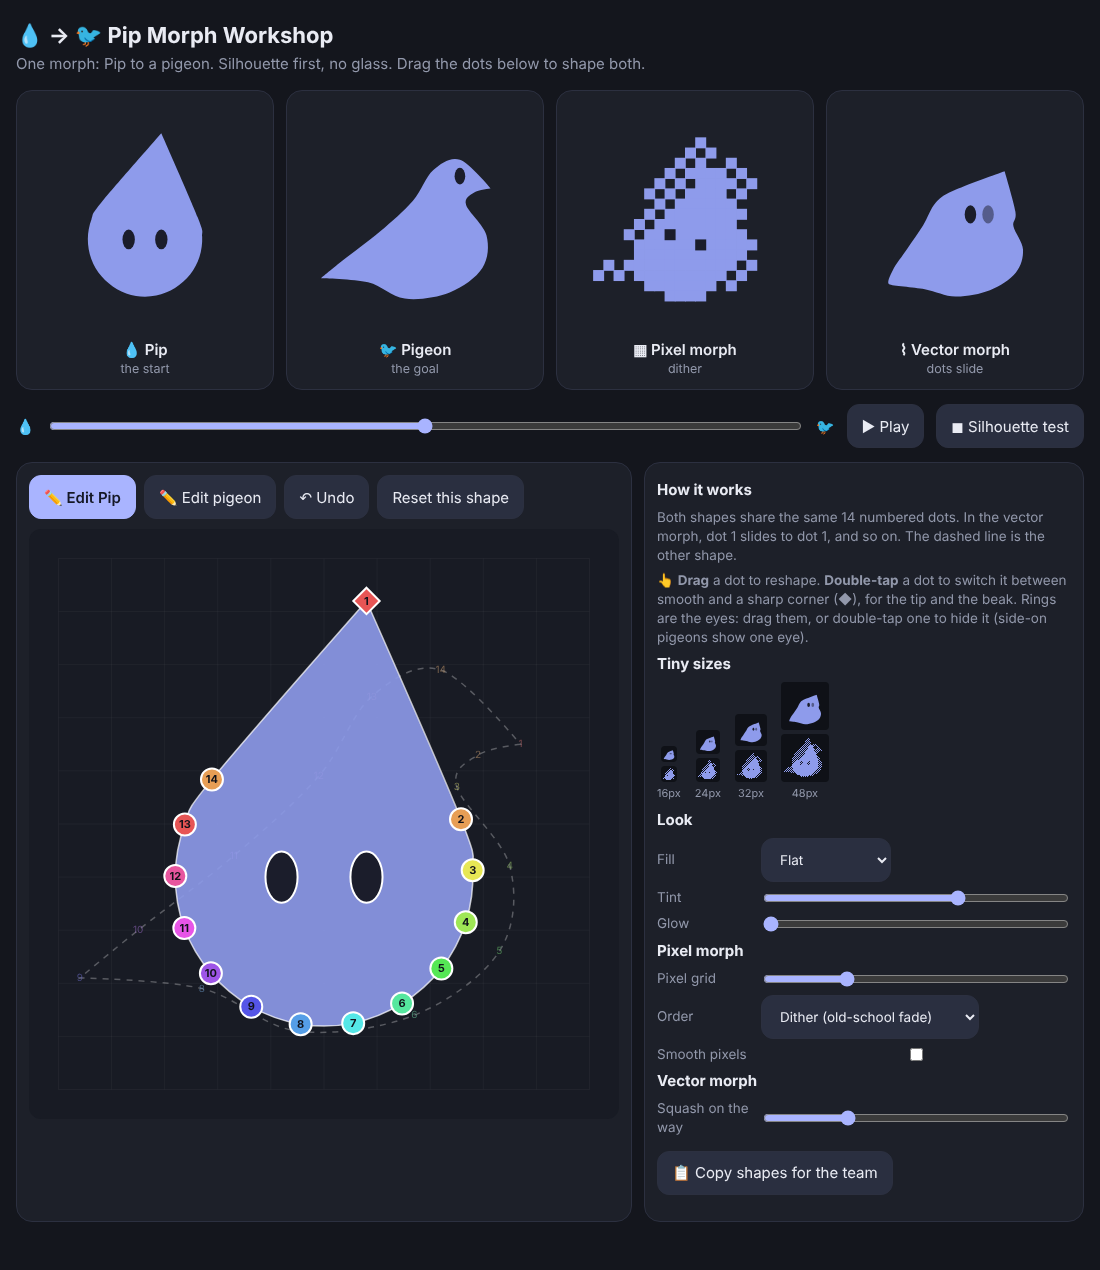
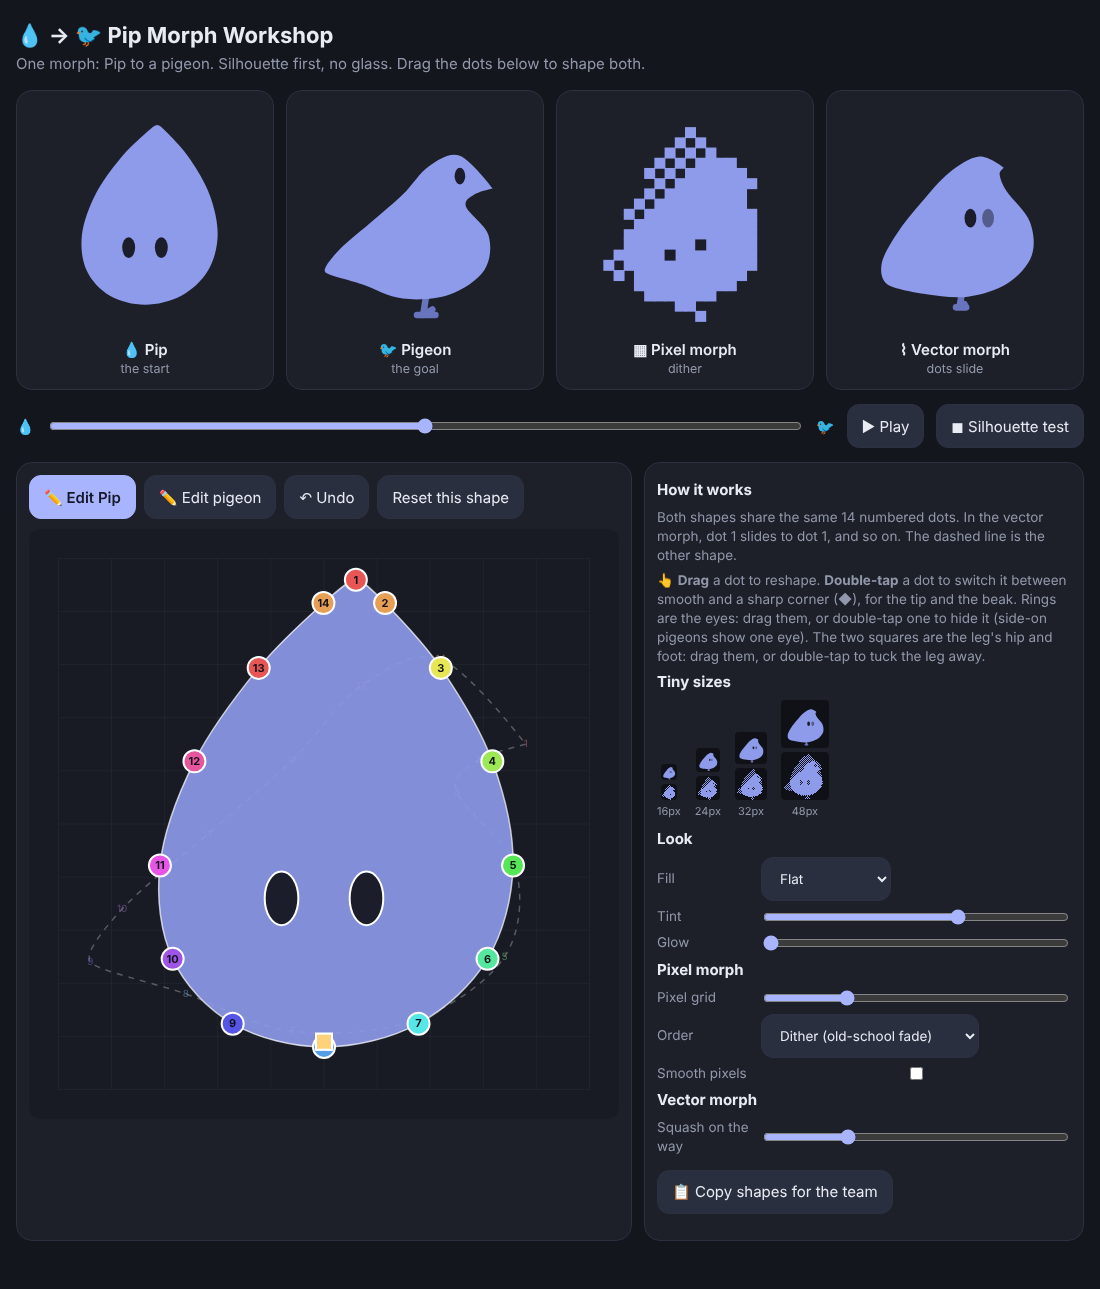
Morph Workshop: one leg that grows in the morph; Pip blobbier and taller (true drop curve); pigeon rounder
Claude-Session: https://claude.ai/code/session_01Fk5mX8SBdThAyaXsRCBZu6

diff --git a/app/design/pip-morph-workshop.html b/app/design/pip-morph-workshop.html
@@ -70,7 +70,7 @@
     <div class="card side">
       <h3>How it works</h3>
       <p>Both shapes share the same 14 numbered dots. In the vector morph, dot 1 slides to dot 1, and so on. The dashed line is the other shape.</p>
-      <p>👆 <b>Drag</b> a dot to reshape. <b>Double-tap</b> a dot to switch it between smooth and a sharp corner (◆), for the tip and the beak. Rings are the eyes: drag them, or double-tap one to hide it (side-on pigeons show one eye).</p>
+      <p>👆 <b>Drag</b> a dot to reshape. <b>Double-tap</b> a dot to switch it between smooth and a sharp corner (◆), for the tip and the beak. Rings are the eyes: drag them, or double-tap one to hide it (side-on pigeons show one eye). The two squares are the leg's hip and foot: drag them, or double-tap to tuck the leg away.</p>
       <h3>Tiny sizes</h3>
       <div class="tiny" id="tiny"></div>
       <h3>Look</h3>
@@ -96,26 +96,30 @@
 // ── Data: two shapes, 12 dots each. [x, y, sharp 0..1] in a 100×100 box. Eyes: [x, y, shown 0..1].
 const N = 14;
 function teardrop() {
-  const pts = [[58, 8, 1]];
-  const cx = 50, cy = 60, r = 28, a0 = -23, a1 = 221;   // where the two sides from the tip touch the circle   // the arc meets the point's two straight-ish sides
-  for (let i = 0; i < N - 1; i++) {
-    const a = (a0 + (a1 - a0) * i / (N - 2)) * Math.PI / 180;
-    pts.push([+(cx + r * Math.cos(a)).toFixed(1), +(cy + r * Math.sin(a)).toFixed(1), 0]);
+  // a true drop curve: the sides bulge all the way up to a soft point (no straight sides, no shoulders).
+  // x = sin t · sin(t/2)^m, y = (1 − cos t)/2. Lower m = blobbier. The point leans a touch to the right.
+  const m = .75, W = 41, top = 4, H = 88, lean = 6, pts = [];
+  for (let i = 0; i < N; i++) {
+    const t = 2 * Math.PI * i / N;
+    const x = 50 + W * Math.sin(t) * Math.pow(Math.sin(t / 2), m) + lean * (1 + Math.cos(t)) / 2;
+    const y = top + H * (1 - Math.cos(t)) / 2;
+    pts.push([+x.toFixed(1), +y.toFixed(1), i === 0 ? .45 : 0]);
   }
-  return { pts, eyes: [[42, 60, 1], [58, 60, 1]], eyeR: 4.2 };
+  return { pts, eyes: [[42, 64, 1], [58, 64, 1]], eyeR: 4.4, leg: [50, 91, 50, 91] };   // no leg: hip = foot
 }
 function pigeon() {
   // chunky and round: a big belly, a small head, a short beak and a stubby tail
   // pigeon, not duck: chest juts forward, small head, beak tips down, back slopes away, tail points DOWN
-  return { pts: [[87, 35, 1], [79, 37, 0], [75, 43, 0], [85, 58, 0], [83, 74, 0], [67, 86, 0], [45, 89, 0],
-                 [27, 81, 0], [4, 79, 1], [15, 70, 0], [33, 56, 0], [49, 41, 0], [59, 26, 0], [72, 21, 0]],
-           eyes: [[72, 29, 1], [72, 29, 0]], eyeR: 3.6 };
+  // rounder: a plump back, a soft tail end, no long straight edges (only the beak stays sharp)
+  return { pts: [[88, 35, 1], [79, 38, 0], [75, 44, 0], [86, 58, 0], [84, 75, 0], [67, 87, 0], [44, 89, 0],
+                 [24, 82, 0], [6, 76, .4], [12, 66, 0], [28, 52, 0], [44, 38, 0], [57, 24, 0], [72, 19, 0]],
+           eyes: [[72, 29, 1], [72, 29, 0]], eyeR: 3.6, leg: [56, 84, 54, 97] };   // leg: hip x,y then foot x,y
 }
 const START = { a: teardrop(), b: pigeon() };
 const clone = o => JSON.parse(JSON.stringify(o));
 let shapes = clone(START);
-try { const s = JSON.parse(localStorage.getItem('pipMorph.v2')); if (s && s.a && s.b && s.a.pts.length === N) shapes = s; } catch (e) {}
-const save = () => { try { localStorage.setItem('pipMorph.v2', JSON.stringify(shapes)); } catch (e) {} };
+try { const s = JSON.parse(localStorage.getItem('pipMorph.v5')); if (s && s.a && s.b && s.a.pts.length === N && s.a.leg) shapes = s; } catch (e) {}
+const save = () => { try { localStorage.setItem('pipMorph.v5', JSON.stringify(shapes)); } catch (e) {} };
 let version = 0;   // bumps on every edit, so the pixel masks are rebuilt only then
 
 // ── Geometry
@@ -124,7 +128,7 @@ const ease = t => t < .5 ? 2 * t * t : 1 - Math.pow(-2 * t + 2, 2) / 2;
 function mix(A, B, k) {
   return { pts: A.pts.map((p, i) => [lerp(p[0], B.pts[i][0], k), lerp(p[1], B.pts[i][1], k), lerp(p[2], B.pts[i][2], k)]),
            eyes: A.eyes.map((e, i) => [lerp(e[0], B.eyes[i][0], k), lerp(e[1], B.eyes[i][1], k), lerp(e[2], B.eyes[i][2], k)]),
-           eyeR: lerp(A.eyeR, B.eyeR, k) };
+           eyeR: lerp(A.eyeR, B.eyeR, k), leg: A.leg.map((v, i) => lerp(v, B.leg[i], k)) };
 }
 /** A closed smooth curve through the dots (Catmull-Rom as Béziers). A sharp dot pulls its handles in to a corner. */
 function outline(S, map) {
@@ -142,12 +146,27 @@ function outline(S, map) {
   return path;
 }
 
+/** The leg: a rounded stroke from hip to foot, with short toes pointing forward. Grows from nothing on Pip. */
+function legPath(S, map) {
+  const [hx, hy, fx, fy] = S.leg, len = Math.hypot(fx - hx, fy - hy);
+  if (len < .6) return null;
+  const p = new Path2D(), a = map(hx, hy), b = map(fx, fy), toe = Math.min(6, len * .55);
+  p.moveTo(a[0], a[1]); p.lineTo(b[0], b[1]);
+  const t1 = map(fx + toe, fy), t2 = map(fx + toe * .75, fy - toe * .45), t3 = map(fx - toe * .5, fy);
+  p.moveTo(b[0], b[1]); p.lineTo(t1[0], t1[1]); p.moveTo(b[0], b[1]); p.lineTo(t2[0], t2[1]);
+  p.moveTo(b[0], b[1]); p.lineTo(t3[0], t3[1]);
+  return p;
+}
+
 // ── Look
 const ui = id => document.getElementById(id);
 const look = () => document.body.classList.contains('sil') ? { fill: 'sil', hue: 0, glow: 0 }
   : { fill: ui('fill').value, hue: +ui('hue').value, glow: +ui('glow').value };
 function paint(ctx, S, map, scale, L, opts = {}) {
   const path = outline(S, map), body = `hsl(${L.hue} 70% 74%)`, deep = `hsl(${L.hue} 45% 52%)`;
+  const leg = legPath(S, map);
+  if (leg) { ctx.save(); ctx.lineCap = ctx.lineJoin = 'round'; ctx.lineWidth = Math.max(1.2, 3.2 * scale);
+    ctx.strokeStyle = L.fill === 'sil' ? '#111' : `hsl(${L.hue} 40% 58%)`; ctx.stroke(leg); ctx.restore(); }
   ctx.save();
   if (L.glow > 0) { ctx.shadowColor = `hsl(${L.hue} 90% 70% / ${L.glow})`; ctx.shadowBlur = 22 * scale * L.glow; }
   if (L.fill === 'line') {
@@ -198,7 +217,8 @@ function masks(G) {
     if (eyes) { cx.fillStyle = '#000';
       for (const [x, y, a] of S.eyes) { if (a < .5) continue; cx.beginPath();
         cx.ellipse(x * s, y * s, Math.max(.5, S.eyeR * .72 * s), Math.max(.6, S.eyeR * 1.15 * s), 0, 0, Math.PI * 2); cx.fill(); } }
-    else { cx.fillStyle = '#000'; cx.fill(outline(S, map)); }
+    else { cx.fillStyle = '#000'; cx.fill(outline(S, map));
+      const leg = legPath(S, map); if (leg) { cx.strokeStyle = '#000'; cx.lineCap = 'round'; cx.lineWidth = Math.max(1, 3.2 * s); cx.stroke(leg); } }
     const d = cx.getImageData(0, 0, G, G).data, m = new Uint8Array(G * G);
     for (let i = 0; i < G * G; i++) m[i] = d[i * 4 + 3] > 110 ? 1 : 0;
     if (eyes) for (const [x, y, a] of S.eyes) if (a >= .5) {   // an eye is always at least one pixel
@@ -264,7 +284,8 @@ function hslToRgb(h, s, l) {
 function vectorShape(t) {
   const k = ease(t), S = mix(shapes.a, shapes.b, k), q = +ui('squash').value * Math.sin(Math.PI * t);
   if (q) { const cy = 85; S.pts = S.pts.map(([x, y, s]) => [50 + (x - 50) * (1 + q), cy + (y - cy) * (1 - q), s]);
-           S.eyes = S.eyes.map(([x, y, a]) => [50 + (x - 50) * (1 + q), cy + (y - cy) * (1 - q), a]); }
+           S.eyes = S.eyes.map(([x, y, a]) => [50 + (x - 50) * (1 + q), cy + (y - cy) * (1 - q), a]);
+           S.leg = [S.leg[0], S.leg[1], S.leg[2], S.leg[3]].map((v, i) => i % 2 ? cy + (v - cy) * (1 - q) : 50 + (v - 50) * (1 + q)); }
   return S;
 }
 
@@ -292,6 +313,7 @@ const ed = ui('ed');
 function handles() {
   const S = shapes[editing], list = S.pts.map((p, i) => ({ kind: 'pt', i, x: p[0], y: p[1] }));
   S.eyes.forEach((e, i) => list.push({ kind: 'eye', i, x: e[0], y: e[1] }));
+  list.push({ kind: 'hip', i: 0, x: S.leg[0], y: S.leg[1] }, { kind: 'foot', i: 0, x: S.leg[2], y: S.leg[3] });
   return list;
 }
 function drawEditor() {
@@ -326,6 +348,12 @@ function drawEditor() {
     ctx.beginPath(); ctx.ellipse(x, y, S.eyeR * .72 * B.s, S.eyeR * 1.15 * B.s, 0, 0, Math.PI * 2); ctx.fill(); ctx.stroke();
     ctx.setLineDash([]);
   });
+  // leg handles: small squares
+  [[S.leg[0], S.leg[1]], [S.leg[2], S.leg[3]]].forEach(([lx, ly], i) => {
+    const [x, y] = B.map(lx, ly), r = 8 * d;
+    ctx.fillStyle = i ? '#ffd27a' : '#c9a35a'; ctx.strokeStyle = '#fff'; ctx.lineWidth = 2 * d;
+    ctx.fillRect(x - r, y - r, r * 2, r * 2); ctx.strokeRect(x - r, y - r, r * 2, r * 2);
+  });
 }
 function pick(ev) {
   const r = ed.getBoundingClientRect(), d = window.devicePixelRatio || 1;
@@ -342,7 +370,8 @@ ed.addEventListener('pointerdown', ev => {
   if (lastTap.id === id && now - lastTap.at < 320) {           // double-tap
     const S = shapes[editing];
     if (best.kind === 'pt') S.pts[best.i][2] = S.pts[best.i][2] > .5 ? 0 : 1;
-    else S.eyes[best.i][2] = S.eyes[best.i][2] > .5 ? 0 : 1;
+    else if (best.kind === 'eye') S.eyes[best.i][2] = S.eyes[best.i][2] > .5 ? 0 : 1;
+    else S.leg = [S.leg[0], S.leg[1], S.leg[0], S.leg[1]];   // double-tap the leg: tuck it away
     lastTap = { id: null, at: 0 }; changed(); return;
   }
   lastTap = { id, at: now }; drag = best;
@@ -352,7 +381,8 @@ ed.addEventListener('pointermove', ev => {
   const { at } = pick(ev), x = Math.max(0, Math.min(100, at[0])), y = Math.max(0, Math.min(100, at[1]));
   const S = shapes[editing];
   if (drag.kind === 'pt') { S.pts[drag.i][0] = +x.toFixed(1); S.pts[drag.i][1] = +y.toFixed(1); }
-  else { S.eyes[drag.i][0] = +x.toFixed(1); S.eyes[drag.i][1] = +y.toFixed(1); }
+  else if (drag.kind === 'eye') { S.eyes[drag.i][0] = +x.toFixed(1); S.eyes[drag.i][1] = +y.toFixed(1); }
+  else { const o = drag.kind === 'hip' ? 0 : 2; S.leg[o] = +x.toFixed(1); S.leg[o + 1] = +y.toFixed(1); }
   changed();
 });
 const endDrag = () => { drag = null; };
@@ -371,7 +401,7 @@ ui('sil').onclick = () => {
 ui('copy').onclick = () => {
   const r = a => a.map(v => v.map(n => +(+n).toFixed(1)));
   const txt = 'FOR JULES · Pip → pigeon shapes (from the Morph Workshop)\n' + JSON.stringify({
-    pip: { dots: r(shapes.a.pts), eyes: r(shapes.a.eyes) }, pigeon: { dots: r(shapes.b.pts), eyes: r(shapes.b.eyes) },
+    pip: { dots: r(shapes.a.pts), eyes: r(shapes.a.eyes) }, pigeon: { dots: r(shapes.b.pts), eyes: r(shapes.b.eyes), leg: shapes.b.leg }, pipLeg: shapes.a.leg,
     look: look(), pixel: { grid: +ui('grid').value, order: ui('order').value, smooth: ui('smooth').checked }, squash: +ui('squash').value });
   (navigator.clipboard ? navigator.clipboard.writeText(txt) : Promise.reject()).then(() => toast('Copied. Paste it to Jules.'), () => { prompt('Copy this:', txt); });
 };
